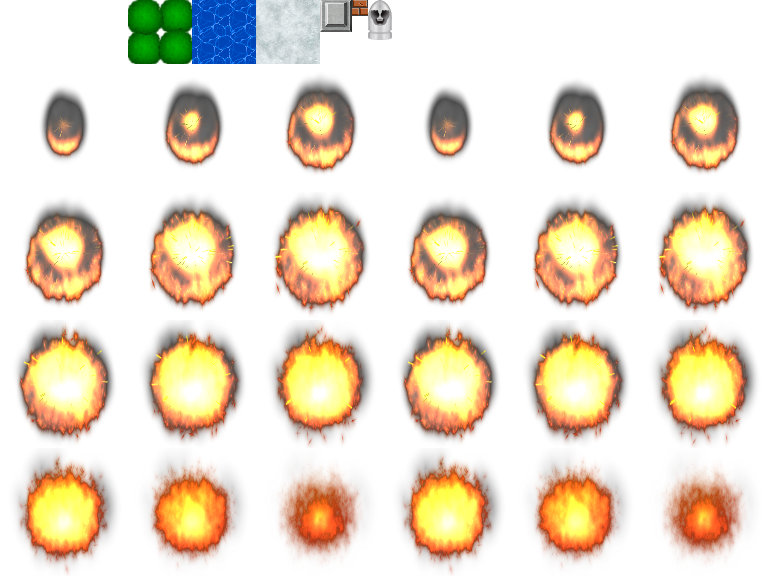
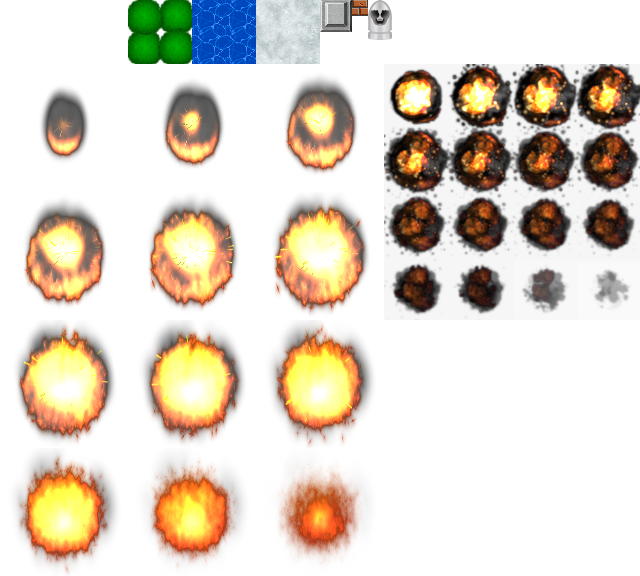
***** Đinh Văn Hoàng ***** 1/ Thêm Sprite mới cho Explosion

diff --git a/AndEngineSampleProject-master/src/org/xetang/map/object/MapObjectFactory.java b/AndEngineSampleProject-master/src/org/xetang/map/object/MapObjectFactory.java
@@ -39,7 +39,7 @@ public class MapObjectFactory {
 	public static final int MAX_OBJECT_COUNT = (GameManager.MAP_GRID * 4)
 			* (GameManager.MAP_GRID * 4);
 
-	public static final int MAX_RESOURCE_BITMAP_WIDTH = 768;
+	public static final int MAX_RESOURCE_BITMAP_WIDTH = 640;
 	public static final int MAX_RESOURCE_BITMAP_HEIGHT = 576;
 
 	private static final Point EAGLE_TEXTURE_POS = new Point(0, 0);
@@ -200,7 +200,7 @@ public class MapObjectFactory {
 				BitmapTextureAtlasTextureRegionFactory.createTiledFromAsset(
 						_bitmapTextureAtlas, GameManager.Activity.getAssets(),
 						strTexture, EXPLOSION_TEXTURE_POS.x,
-						EXPLOSION_TEXTURE_POS.y, 3, 4));
+						EXPLOSION_TEXTURE_POS.y, 4, 4));
 
 		_bitmapTextureAtlas.load();
 	}
